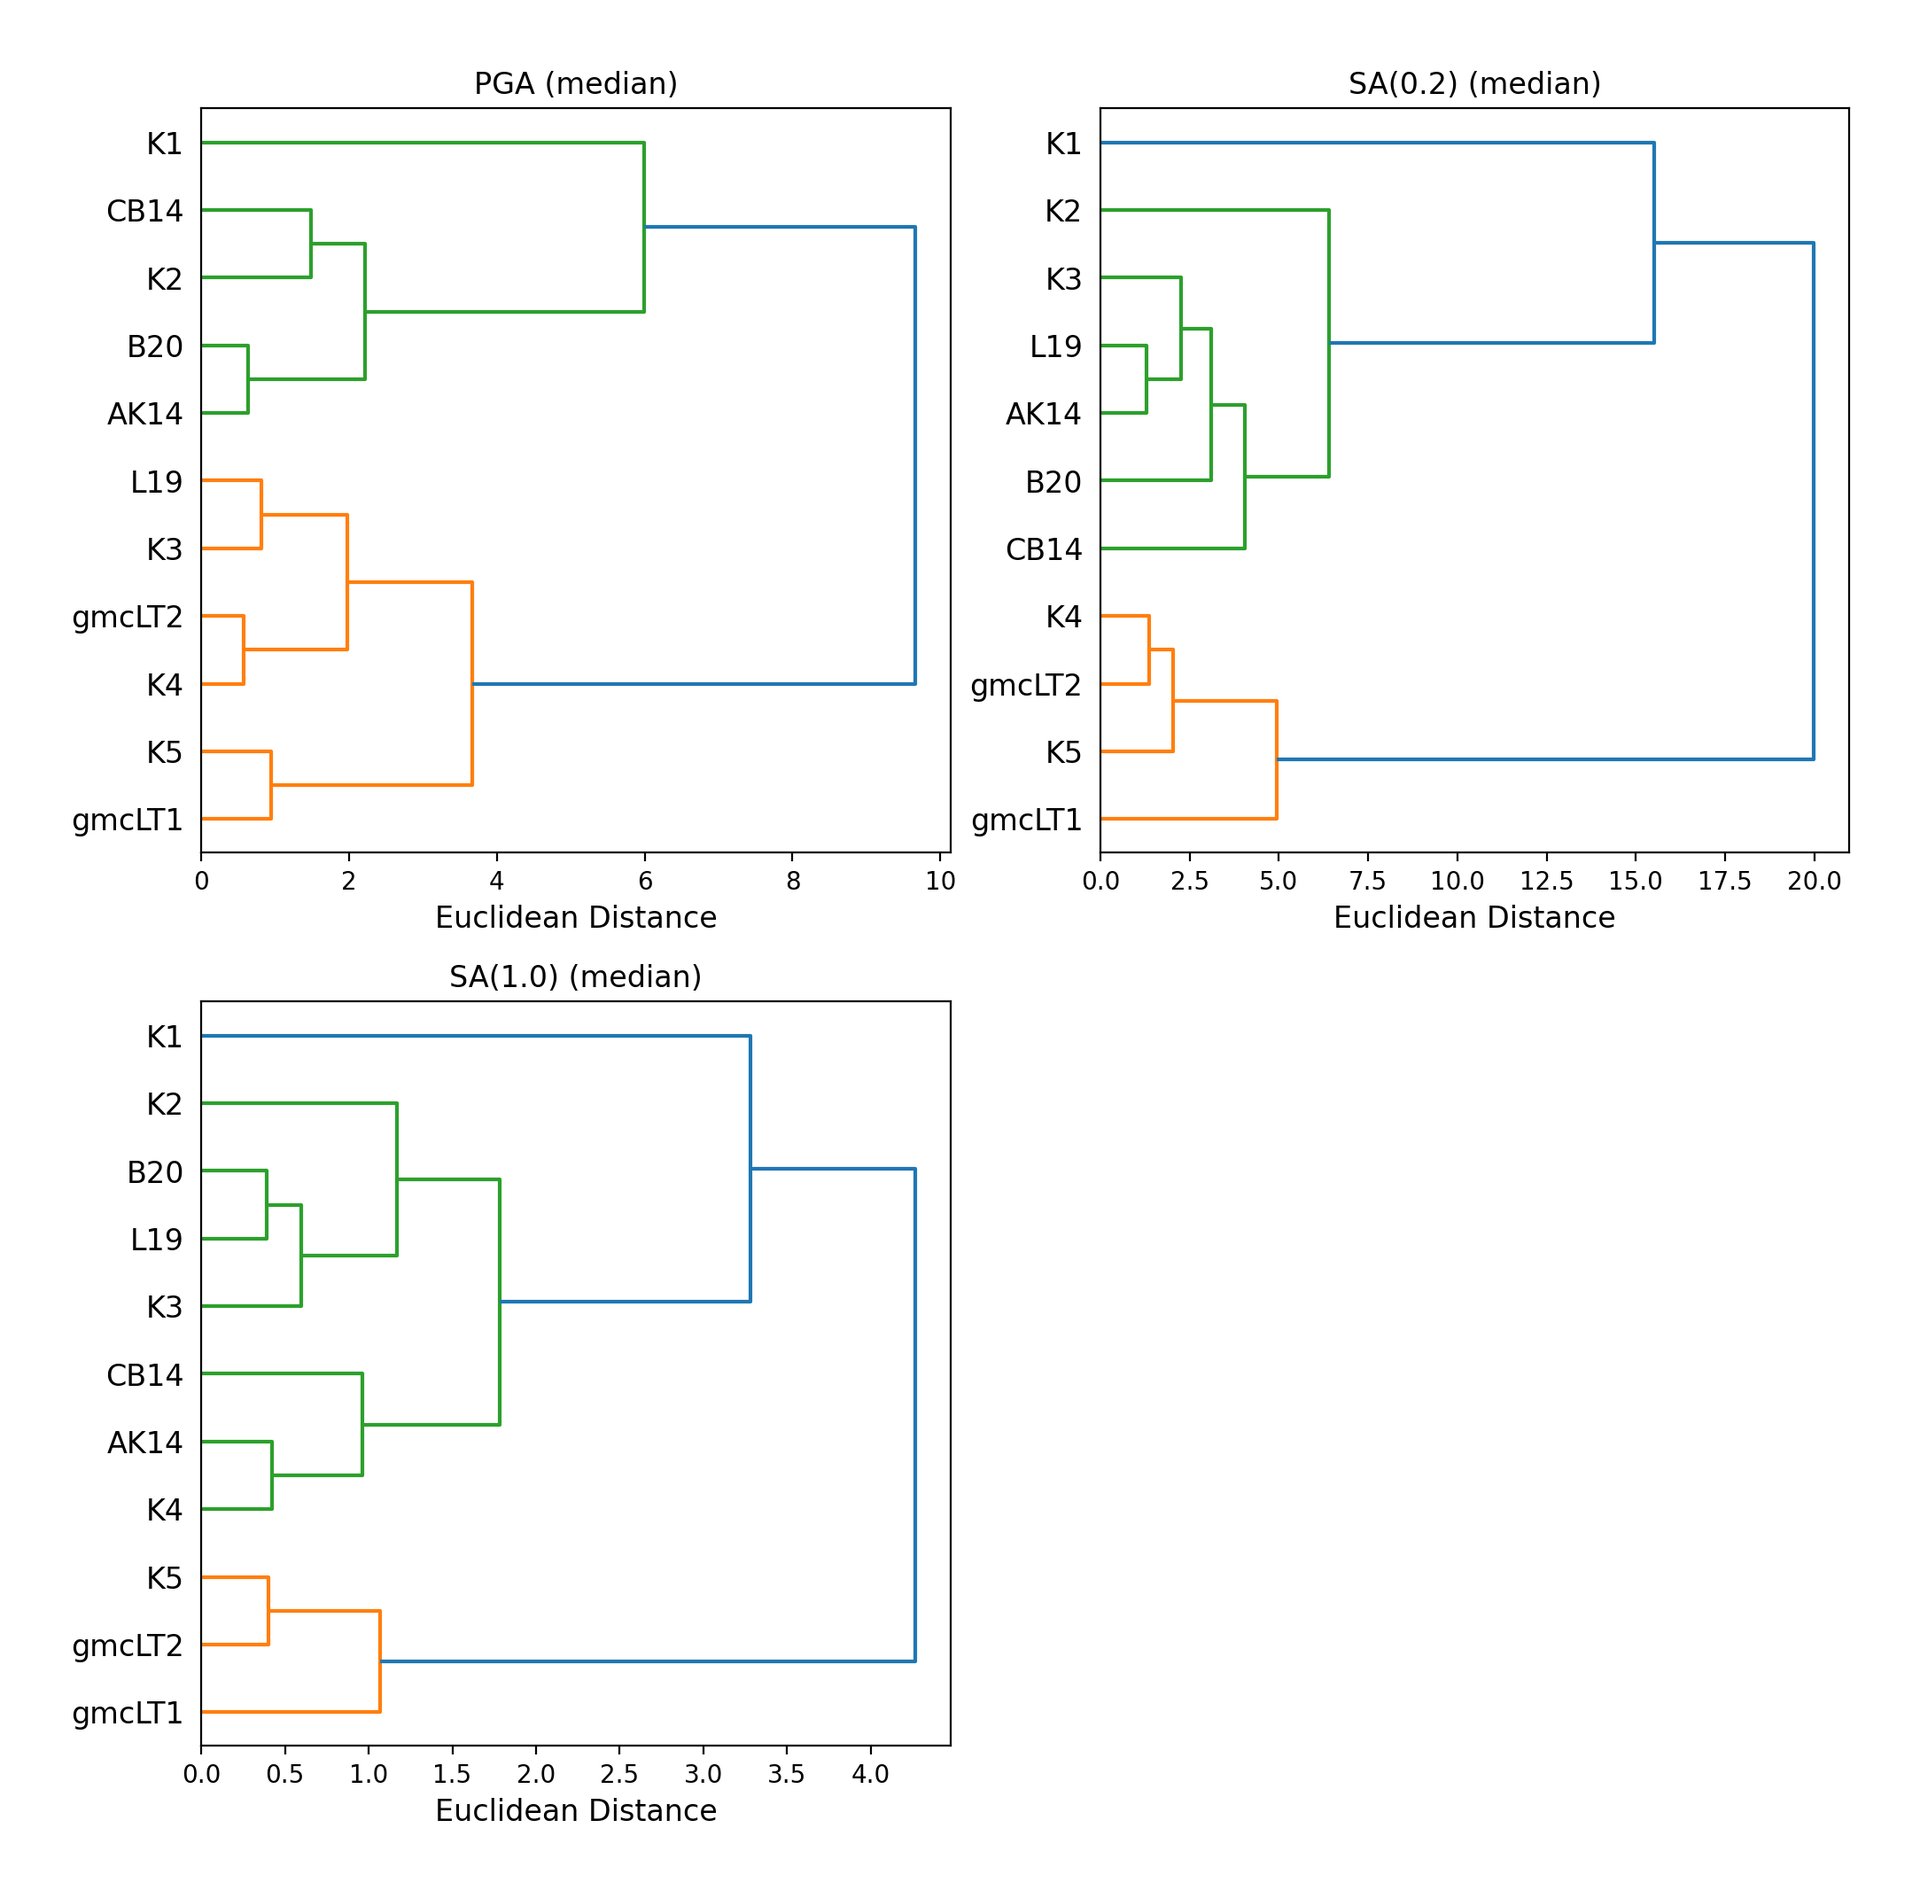
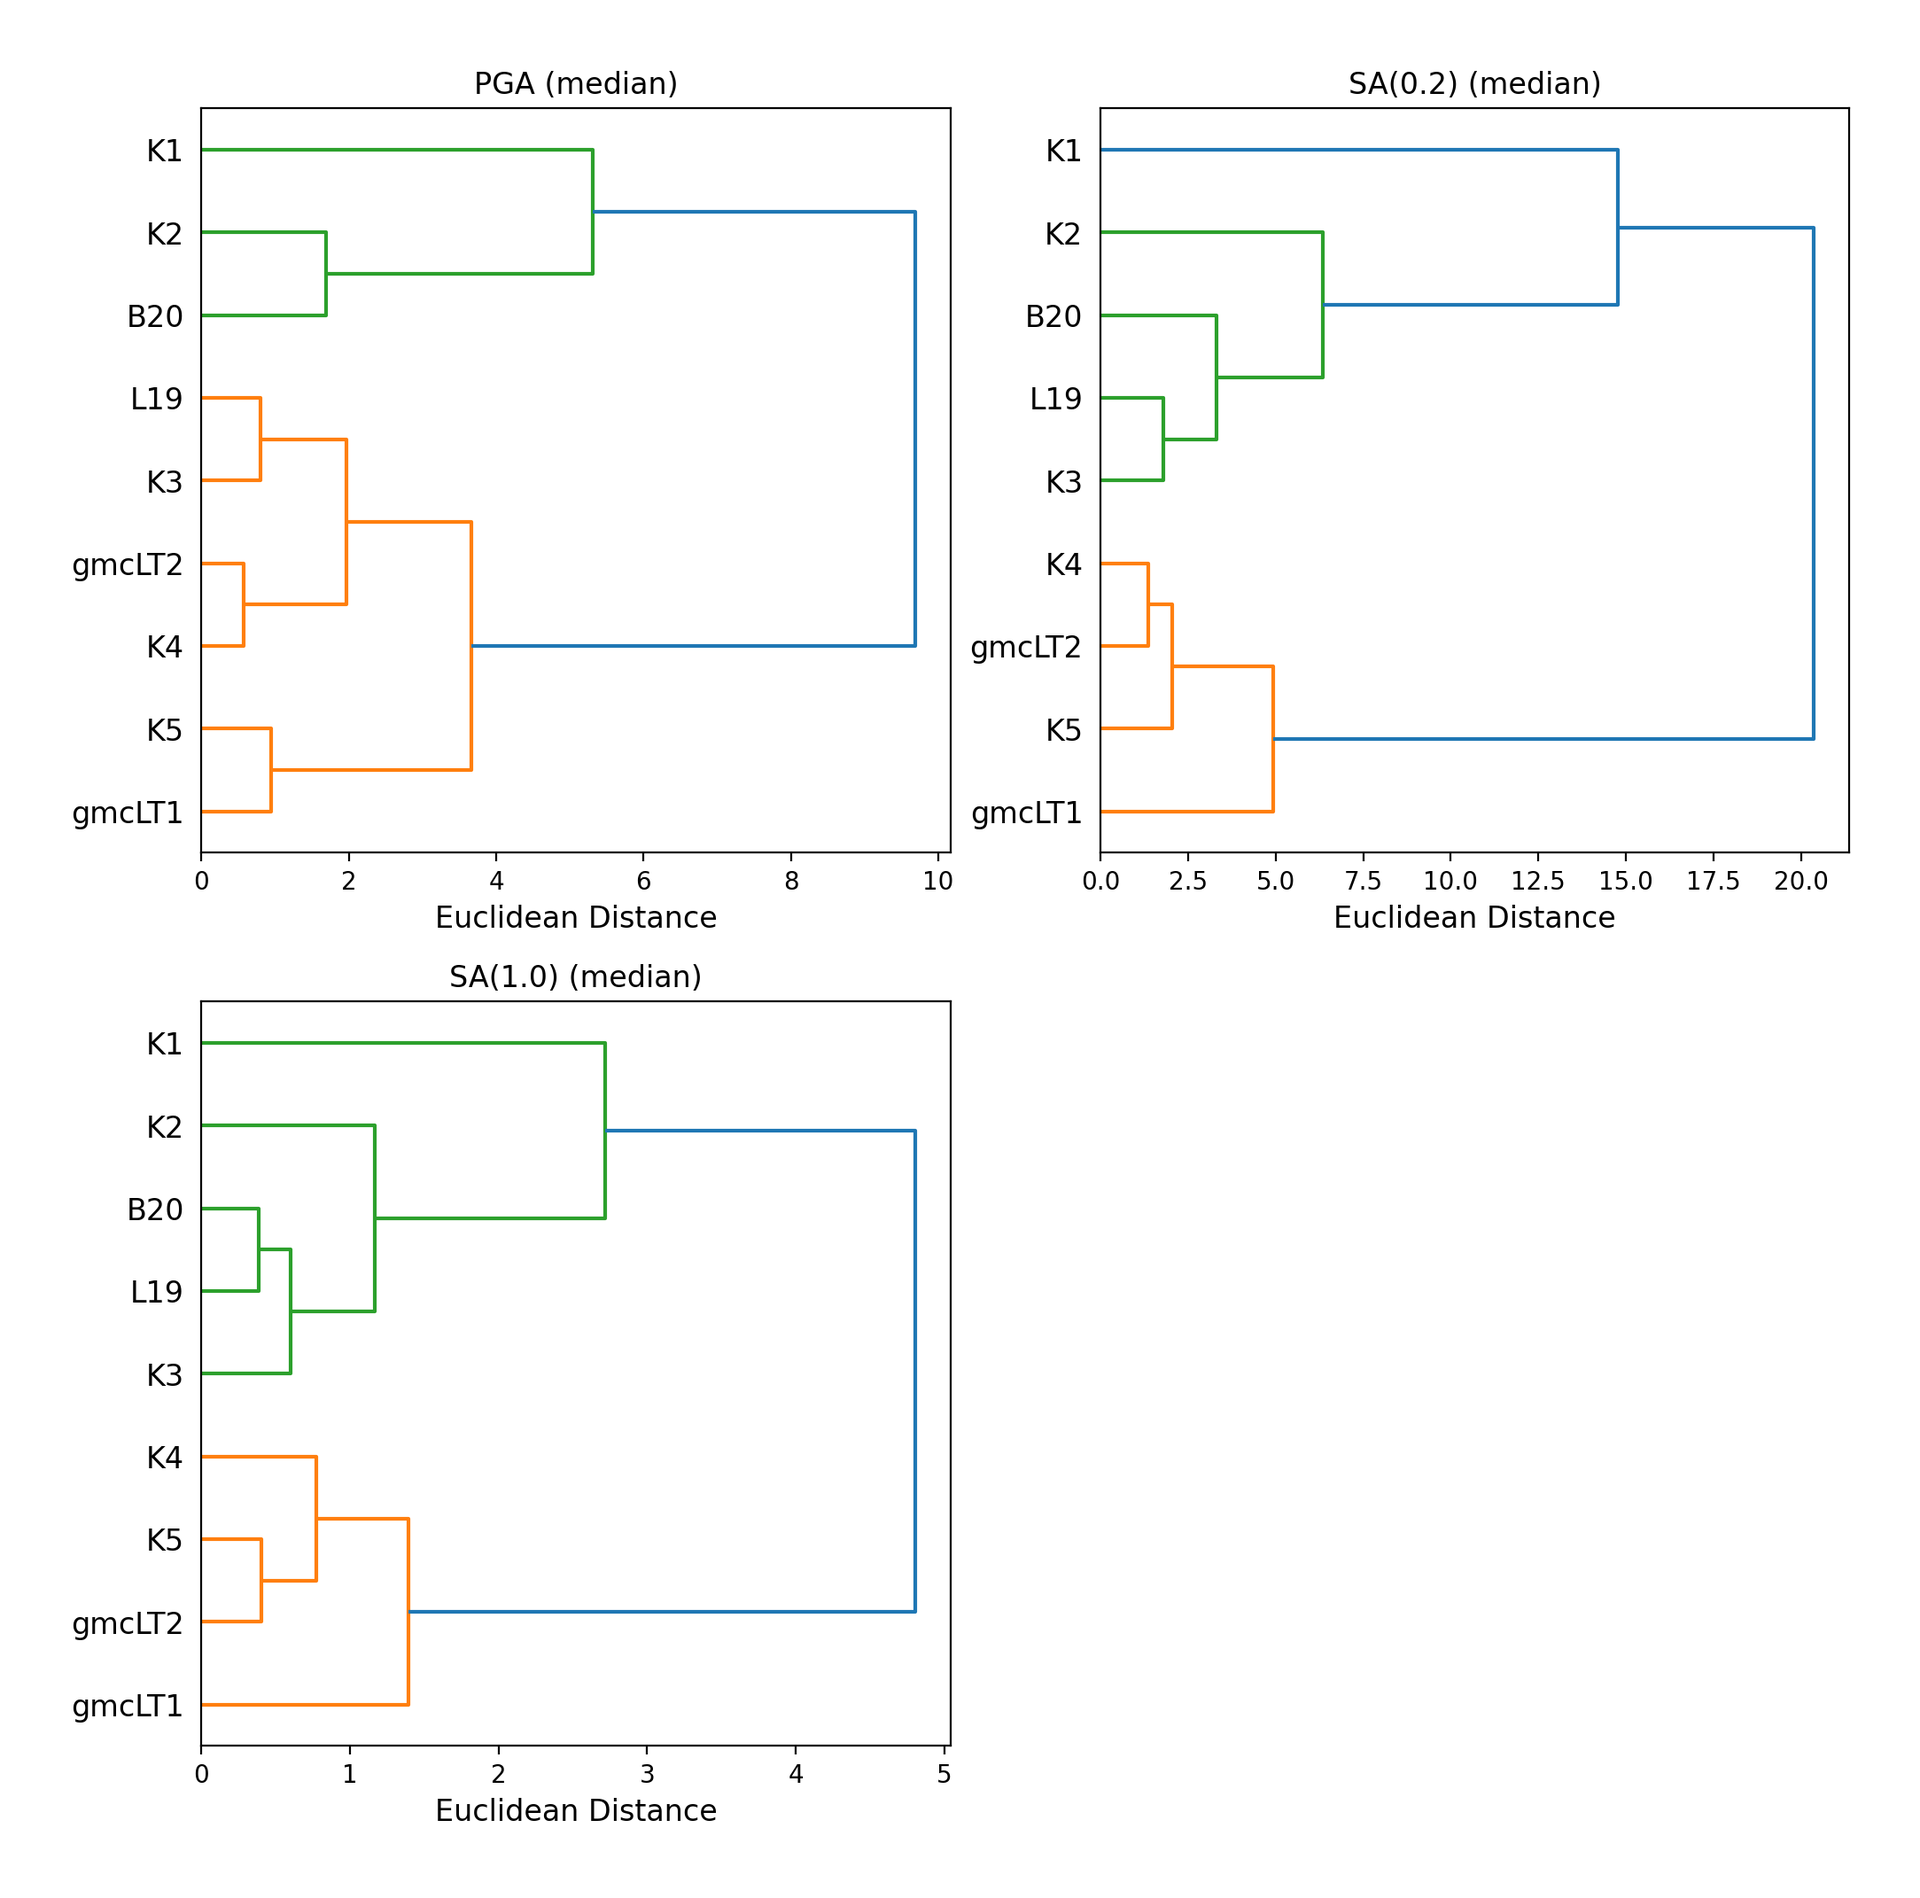
eucl exclude plot_lt_only gmms

diff --git a/openquake/smt/tests/comparison/comparison_test.py b/openquake/smt/tests/comparison/comparison_test.py
@@ -54,6 +54,9 @@ TARGET_BASELINE_GMPE = '[BooreEtAl2014]'
 TARGET_TRT = 'active_crustal'
 TARGET_ZTOR = -999
 
+# Target for Euclidean distance analysis related matrices
+TARGET_EUCL = 4 # 2 GMMs (CY14, CB14), the lt made of them (gmc1) and
+                # the second lt (gmc2 - no individual GMMs considered)
 
 class ComparisonTestCase(unittest.TestCase):
     """
@@ -142,7 +145,7 @@ class ComparisonTestCase(unittest.TestCase):
         for imt in TARGET_IMTS:
             self.assertEqual(len(mtxs_medians[from_string(imt)]), len(TARGET_GMPES))
 
-    def test_sammons_and_euclidean_distance_matrix_functions(self):
+    def test_sammons_and_distance_matrix_functions(self):
         """
         Check expected outputs based on given input parameters for median
         Sammons and Euclidean distance matrix plotting functions
@@ -152,8 +155,8 @@ class ComparisonTestCase(unittest.TestCase):
 
         # Get lts
         lts = 0
-        for lt in  [config.lt_weights_gmc1, config.lt_weights_gmc2,
-                    config.lt_weights_gmc3, config.lt_weights_gmc4]:
+        for lt in [config.lt_weights_gmc1, config.lt_weights_gmc2,
+                   config.lt_weights_gmc3, config.lt_weights_gmc4]:
             if lt is not None:
                 lts += 1
 
@@ -162,18 +165,22 @@ class ComparisonTestCase(unittest.TestCase):
 
         # Sammons checks
         coo = plot_sammons_util(
-            config.imt_list, config.gmpe_labels,
-            mtxs_medians, os.path.join(self.output_directory,
-                                       'SammonMaps.png'),
-            config.custom_color_flag, config.custom_color_list,
+            config.imt_list,
+            config.gmpe_labels,
+            mtxs_medians,
+            os.path.join(self.output_directory, 'SammonMaps.png'),
+            config.custom_color_flag,
+            config.custom_color_list,
             mtxs_type='median')
 
         # Check Sammons computing outputs for num. GMPEs in .toml per run
-        self.assertEqual(len(coo), len(TARGET_GMPES)+lts)
+        self.assertEqual(len(coo), TARGET_EUCL)
 
         # Euclidean checks
         matrix_dist = plot_matrix_util(
-            config.imt_list, config.gmpe_labels, mtxs_medians,
+            config.imt_list,
+            config.gmpe_labels,
+            mtxs_medians,
             os.path.join(self.output_directory, 'Euclidean.png'),
             mtxs_type='median')
 
@@ -182,12 +189,12 @@ class ComparisonTestCase(unittest.TestCase):
 
         # Check correct number of GMPEs within matrix_dist for each IMT
         for imt in range(0, len(matrix_dist)):
-            self.assertEqual(len(matrix_dist[imt]), len(TARGET_GMPES)+lts)
+            self.assertEqual(len(matrix_dist[imt]), TARGET_EUCL)
 
         # Check per GMPE that euclidean dist to all other GMPEs is calculated
         for imt in range(0, len(matrix_dist)):
             for gmpe in range(0, len(matrix_dist[imt])):
-                self.assertEqual(len(matrix_dist[imt][gmpe]), len(TARGET_GMPES)+lts)
+                self.assertEqual(len(matrix_dist[imt][gmpe]), TARGET_EUCL)
 
     def test_clustering_median(self):
         """
@@ -228,8 +235,11 @@ class ComparisonTestCase(unittest.TestCase):
         # Get clustering matrix
         lab = '84th_perc_Clustering_vs30.png'
         Z_matrix = plot_cluster_util(
-            config.imt_list, config.gmpe_labels, mtxs_medians,
-            os.path.join(self.output_directory, lab), mtxs_type='84th_perc')
+            config.imt_list,
+            config.gmpe_labels,
+            mtxs_medians,
+            os.path.join(self.output_directory, lab),
+            mtxs_type='84th_perc')
 
         # Check number of cluster arrays matches number of imts per config
         self.assertEqual(len(Z_matrix), len(TARGET_IMTS))

diff --git a/openquake/smt/comparison/utils_compare_gmpes.py b/openquake/smt/comparison/utils_compare_gmpes.py
@@ -617,6 +617,9 @@ def compute_matrix_gmpes(config, mtxs_type):
         for gmm_lt in lt_meds.keys():
             mtxs_median[f"{i}_{gmm_lt}"] = pd.DataFrame(lt_meds[gmm_lt].values()).mean(axis=0)
 
+    # Store gmpes_list to
+    mtxs_median['gmpe_list'] = config.gmpes_list.copy()
+
     return mtxs_median
 
 
@@ -644,15 +647,23 @@ def plot_matrix_util(imt_list, gmpe_list, mtxs, namefig, mtxs_type):
         # Get the data matrix
         data = mtxs[i]   
 
-        # GMPE labels
+        # gmm labels and configs
         labels = gmpe_list.copy()
+        gmm_configs = mtxs['gmpe_list'].copy()
 
         # Add the weighted LTs if any too
         for key in mtxs.keys():
-            if f"{i}_gmcLT" in key:
+            check = f"{i}_gmcLT"
+            if check in key:
                 data = np.vstack((data, mtxs[key]))
                 labels.append(key.split("_")[1]) # Add label
+                gmm_configs.append(check)
 
+        # If only need gmm LT drop the gmms used included in it
+        keep = np.array(['plot_lt_only' not in gmm for gmm in gmm_configs])
+        data = data[keep] 
+        labels = [gmm for k, gmm in zip(keep, labels) if k]
+        
         # Agglomerative clustering
         dist = squareform(pdist(data, 'euclidean'))
         matrix_dist[n] = dist
@@ -739,14 +750,22 @@ def plot_sammons_util(imt_list,
         # Get the data matrix
         data = mtxs[i]
 
-        # GMPE labels
+        # gmm labels and configs
         labels = gmpe_list.copy()
+        gmm_configs = mtxs['gmpe_list'].copy()
 
         # Add the weighted LTs if any too
         for key in mtxs.keys():
-            if f"{i}_gmcLT" in key:
+            check = f"{i}_gmcLT"
+            if check in key:
                 data = np.vstack((data, mtxs[key]))
                 labels.append(key.split("_")[1]) # Add label
+                gmm_configs.append(check)
+
+        # If only need gmm LT drop the gmms used included in it
+        keep = np.array(['plot_lt_only' not in gmm for gmm in gmm_configs])
+        data = data[keep] 
+        labels = [gmm for k, gmm in zip(keep, labels) if k]
 
         # Sammons mapping
         coo, cost = sammon(data, display=1)
@@ -818,14 +837,22 @@ def plot_cluster_util(imt_list, gmpe_list, mtxs, namefig, mtxs_type):
         # Get the data matrix
         data = mtxs[i]
 
-        # GMPE labels
+        # gmm labels and configs 
         labels = gmpe_list.copy()
+        gmm_configs = mtxs['gmpe_list'].copy()
 
         # Add the weighted LTs if any too
         for key in mtxs.keys():
-            if f"{i}_gmcLT" in key:
+            check = f"{i}_gmcLT"
+            if check in key:
                 data = np.vstack((data, mtxs[key]))
                 labels.append(key.split("_")[1]) # Add label
+                gmm_configs.append(check)
+
+        # If only need gmm LT drop the gmms used included in it
+        keep = np.array(['plot_lt_only' not in gmm for gmm in gmm_configs])
+        data = data[keep] 
+        labels = [gmm for k, gmm in zip(keep, labels) if k]
 
         # Agglomerative clustering
         Z = hierarchy.linkage(

diff --git a/openquake/smt/tests/comparison/mgmpe_from_toml_test.py b/openquake/smt/tests/comparison/mgmpe_from_toml_test.py
@@ -61,6 +61,9 @@ class ModifyGroundMotionsTestCase(unittest.TestCase):
         
         # Get matrices of predicted ground-motions per GMM
         obs_matrix = compute_matrix_gmpes(config, mtxs_type='median')
+        
+        # Remove the gmpe_list key
+        del obs_matrix['gmpe_list']
 
         # Load the matrices of expected ground-motions per GMM         
         if not os.path.exists(self.exp_mgmpe):
